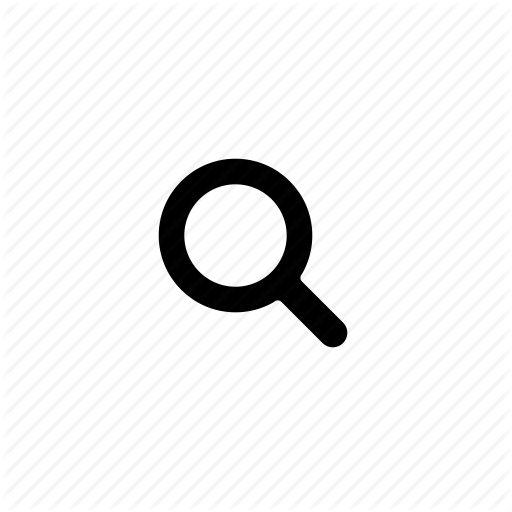
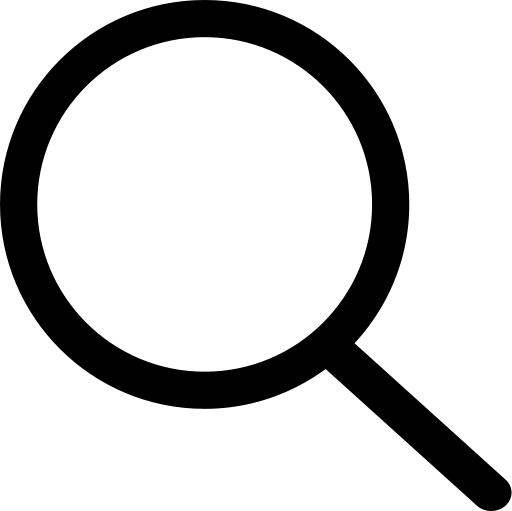
Add files via upload

Changed region(s): [[0.0, 0.0, 1.0, 1.0]]

diff --git a/header.css b/header.css
@@ -1,13 +1,11 @@
 *{box-sizing: border-box;
 padding: 0;
 margin: 0;}
-
 header{
-background-color: #dd0531;
+background-color: #a70000;
 }
 body {
 font-family: 'Roboto', sans-serif}
-
 nav {
 text-decoration: none;
 padding: 1rem 2rem;
@@ -19,7 +17,8 @@ nav label,#hamburger {
 display: none;
 }
 .logo {
-display: inline-block;
+display: flex;
+justify-content: flex-start;
 font-size: 2em;
 font-family: 'Nunito', sans-serif;
 padding: 10px 20px;
@@ -34,7 +33,7 @@ padding: 1rem 2rem;
 color: white;
 text-align: center;
 font-size: 24px;
-display: block;
+display: flex;
 text-align: center;
 transition: .3s;
 }
@@ -50,7 +49,6 @@ transform: rotateY(180deg);
 }
 ul{
 margin-left: auto;
-display:inline-block;
 text-decoration: none;
 list-style: none;
 }
@@ -59,10 +57,10 @@ text-align: center;
 display: inline-block;
 }
 .start {
-background:  white;
+background-image: url(fotos/foodkopie.jpg);
+
 background-size: cover;
 padding: 4rem 2rem;
-/* grid styles */
 display: grid;
 grid-template-columns: repeat(auto-fit, minmax(240px, 1fr));
 align-items: center;
@@ -70,12 +68,42 @@ align-items: center;
 .start > h1 {
 font-size: 4rem;
 padding-bottom: 1rem;
-color: black;
+color: white;
+
 }
 .start > article > p {
 font-size: 1.5rem;
 font-weight: 200;
-color: black;
+color: white;
+}
+.start::before{
+
+}
+.vraag{
+ 
+
+}
+.filter{
+max-height: 5vh; 
+  max-width: 5vw;
+}
+form {
+margin-left: -28.5em;
+width: 100%;
+max-width: 21.5em;
+height: 5em;
+background: #fff;
+border-radius: 2px;
+box-shadow: 0 2px 6px rgba(0,0,0,0.5);
+}
+.showform{
+margin-left: 0em;
+width: 100%;
+max-width: 21.5em;
+height: 5em;
+background: #fff;
+border-radius: 2px;
+box-shadow: 0 2px 6px rgba(0,0,0,0.5);
 }
 section {
 padding: 2em;
@@ -119,16 +147,15 @@ color: black;
 section > ul > li > a {
 padding: .5rem 1rem;
 margin: .5rem;
-background-color:#dd0531;
+background-color:#a70000;
 border-radius: .5rem;
+display: flex;
+justify-content: center;
 }
 section > ul > li > a:hover {
 background-color:black;
 border-radius: .7rem;
 }
-
-
-
 @media screen and (max-width: 950px){
 nav label {
 display: inline-block;
@@ -158,7 +185,6 @@ display: none;
 nav input:checked ~ ul {
 display: block;
 }
-
 h1{
 font-size: 2em;
 display: flex;
@@ -181,4 +207,7 @@ border: 1px solid white;
 }
 *{
 color: white;
+}
+footer{
+background-color:blue;
 }

diff --git a/index.html b/index.html
@@ -34,6 +34,16 @@
 			</section>
 			<!-- https://css-tricks.com/look-ma-no-media-queries-responsive-layouts-using-css-grid. dit heb ik gebruikt
 			figure is iets waar je je foto indoet om het dan makkelijker te bewerken. figcaption is caption op de foto.. overflow hidden is dat de fotos netjes blijven zonder uitsteksels-->
+			<section class="vraag">
+				<img src="fotos/zoek.png" class="filter">
+			<form>
+				<label> zoeken
+					<input type="text" value="" placeholder="truck">
+					<button >ga</button>
+				</label>
+				
+			</form>
+		</section>
 			<section>
 				<ul>
 					<li>
@@ -177,5 +187,7 @@
 			
 		</main>
 		<footer>
+			<p>made by Isa-Jane</p>
 		</footer>
+		<script type="text/javascript" src="acties.js" ></script>
 	</body>

diff --git a/acties.js b/acties.js
@@ -1,0 +1,8 @@
+var zoekbutton = document.querySelector('.filter');
+var zoekveld = document.querySelector('form');
+function show(){
+	console.log('trdy')
+	zoekveld.classList.toggle('showform')
+}
+zoekbutton.addEventListener('click',show);
+
